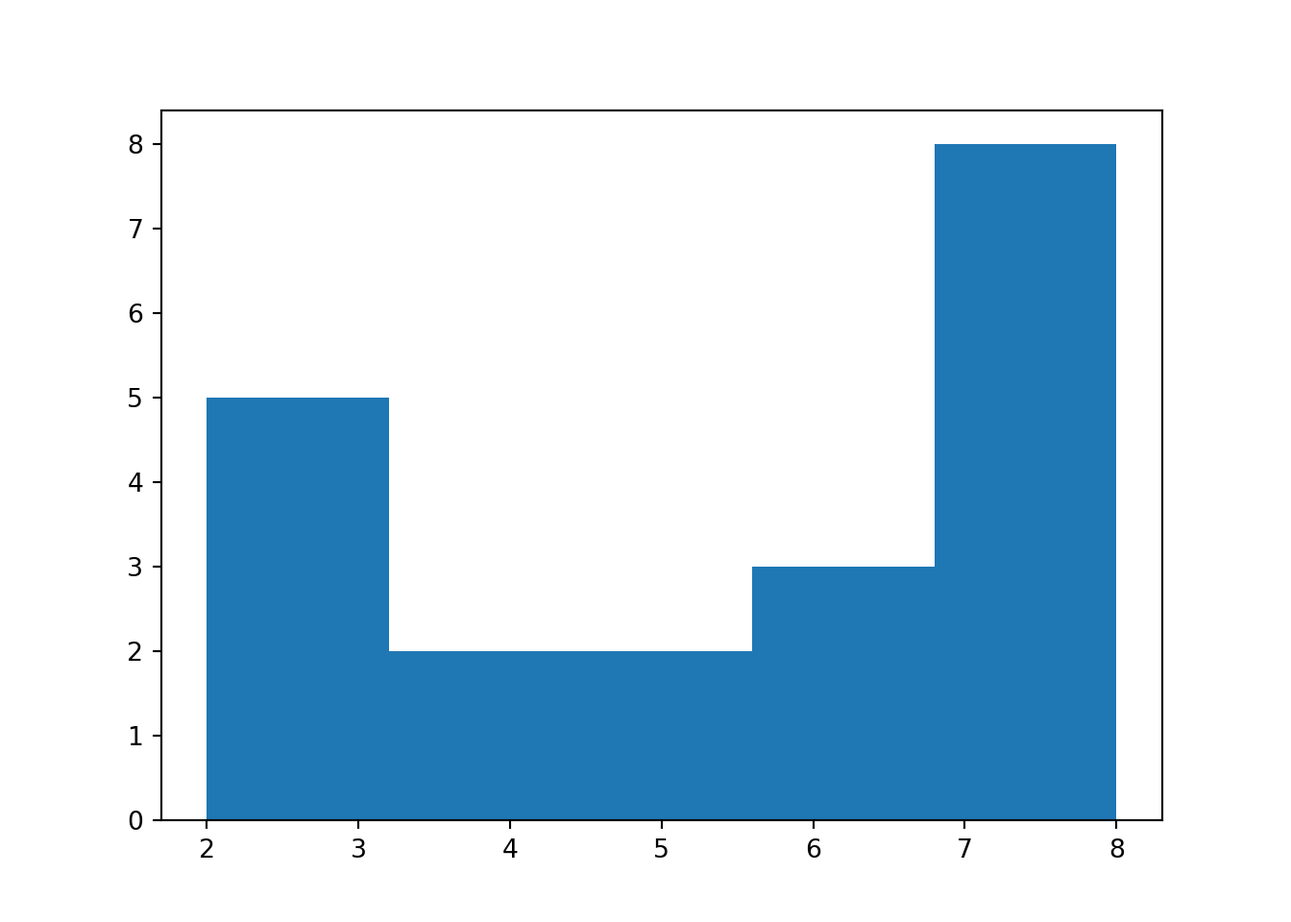
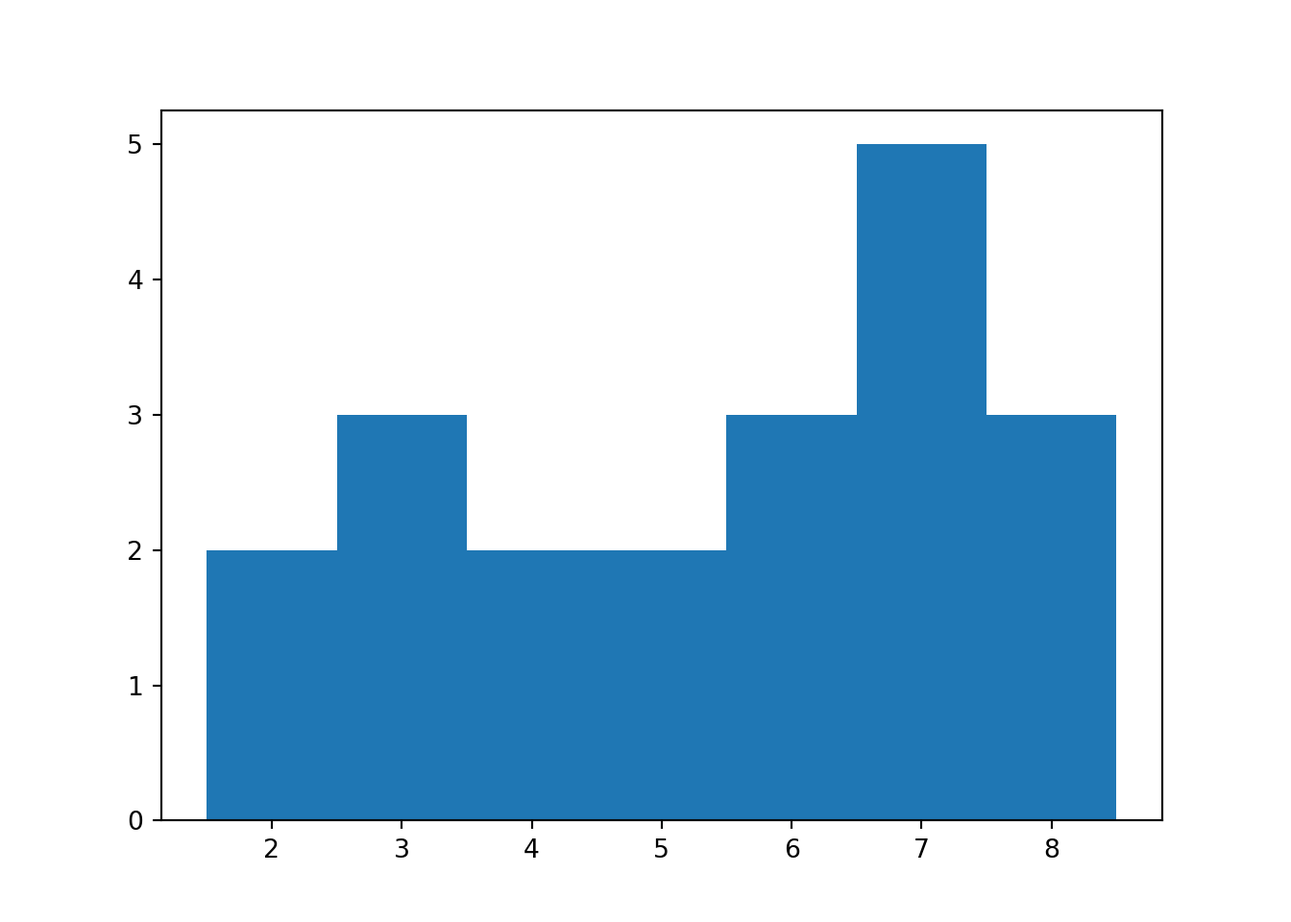
qqplot追加

diff --git a/docs/posts/graph/index.html b/docs/posts/graph/index.html
@@ -227,12 +227,14 @@ gtag('config', 'G-7CEVE5761Z', { 'anonymize_ip': true});
   <li><a href="#r" id="toc-r"><span class="toc-section-number">2.1</span>  R</a>
   <ul>
   <li><a href="#データの読み込み" id="toc-データの読み込み"><span class="toc-section-number">2.1.1</span>  データの読み込み</a></li>
-  <li><a href="#グラフ化" id="toc-グラフ化"><span class="toc-section-number">2.1.2</span>  グラフ化</a></li>
+  <li><a href="#ヒストグラム-1" id="toc-ヒストグラム-1"><span class="toc-section-number">2.1.2</span>  ヒストグラム</a></li>
+  <li><a href="#qqプロット" id="toc-qqプロット"><span class="toc-section-number">2.1.3</span>  QQプロット</a></li>
   </ul></li>
   <li><a href="#python" id="toc-python"><span class="toc-section-number">2.2</span>  Python</a>
   <ul>
   <li><a href="#データの読み込み-1" id="toc-データの読み込み-1"><span class="toc-section-number">2.2.1</span>  データの読み込み</a></li>
-  <li><a href="#グラフ化-1" id="toc-グラフ化-1"><span class="toc-section-number">2.2.2</span>  グラフ化</a></li>
+  <li><a href="#ヒストグラム-2" id="toc-ヒストグラム-2"><span class="toc-section-number">2.2.2</span>  ヒストグラム</a></li>
+  <li><a href="#qqプロット-1" id="toc-qqプロット-1"><span class="toc-section-number">2.2.3</span>  QQプロット</a></li>
   </ul></li>
   </ul></li>
   <li><a href="#参考書籍" id="toc-参考書籍"><span class="toc-section-number">3</span>  参考書籍</a></li>
@@ -255,13 +257,25 @@ gtag('config', 'G-7CEVE5761Z', { 'anonymize_ip': true});
 <span id="cb1-2"><a href="#cb1-2" aria-hidden="true" tabindex="-1"></a>dgr01<span class="ot">&lt;-</span><span class="fu">tibble</span>(<span class="at">value=</span><span class="fu">c</span>(<span class="dv">2</span>,<span class="dv">2</span>,<span class="dv">3</span>,<span class="dv">3</span>,<span class="dv">3</span>,<span class="dv">4</span>,<span class="dv">4</span>,<span class="dv">5</span>,<span class="dv">5</span>,<span class="dv">6</span>,<span class="dv">6</span>,<span class="dv">6</span>,<span class="dv">7</span>,<span class="dv">7</span>,<span class="dv">7</span>,<span class="dv">7</span>,<span class="dv">7</span>,<span class="dv">8</span>,<span class="dv">8</span>,<span class="dv">8</span>))</span></code><button title="Copy to Clipboard" class="code-copy-button"><i class="bi"></i></button></pre></div>
 </div>
 </section>
-<section id="グラフ化" class="level3" data-number="2.1.2">
-<h3 data-number="2.1.2" class="anchored" data-anchor-id="グラフ化"><span class="header-section-number">2.1.2</span> グラフ化</h3>
+<section id="ヒストグラム-1" class="level3" data-number="2.1.2">
+<h3 data-number="2.1.2" class="anchored" data-anchor-id="ヒストグラム-1"><span class="header-section-number">2.1.2</span> ヒストグラム</h3>
 <div class="cell">
 <div class="sourceCode cell-code" id="cb2"><pre class="sourceCode r code-with-copy"><code class="sourceCode r"><span id="cb2-1"><a href="#cb2-1" aria-hidden="true" tabindex="-1"></a><span class="fu">ggplot</span>(dgr01,<span class="fu">aes</span>(value))<span class="sc">+</span></span>
 <span id="cb2-2"><a href="#cb2-2" aria-hidden="true" tabindex="-1"></a>  <span class="fu">geom_histogram</span>(<span class="at">binwidth =</span> <span class="dv">1</span>)</span></code><button title="Copy to Clipboard" class="code-copy-button"><i class="bi"></i></button></pre></div>
 <div class="cell-output-display">
 <p><img src="index_files/figure-html/unnamed-chunk-2-1.png" class="img-fluid" width="672"></p>
+</div>
+</div>
+</section>
+<section id="qqプロット" class="level3" data-number="2.1.3">
+<h3 data-number="2.1.3" class="anchored" data-anchor-id="qqプロット"><span class="header-section-number">2.1.3</span> QQプロット</h3>
+<div class="cell">
+<div class="sourceCode cell-code" id="cb3"><pre class="sourceCode r code-with-copy"><code class="sourceCode r"><span id="cb3-1"><a href="#cb3-1" aria-hidden="true" tabindex="-1"></a><span class="fu">ggplot</span>(dgr01,<span class="fu">aes</span>(<span class="at">sample=</span>value))<span class="sc">+</span></span>
+<span id="cb3-2"><a href="#cb3-2" aria-hidden="true" tabindex="-1"></a>  <span class="fu">stat_qq</span>()<span class="sc">+</span></span>
+<span id="cb3-3"><a href="#cb3-3" aria-hidden="true" tabindex="-1"></a>  <span class="fu">stat_qq_line</span>()<span class="sc">+</span></span>
+<span id="cb3-4"><a href="#cb3-4" aria-hidden="true" tabindex="-1"></a>  <span class="fu">labs</span>(<span class="at">x =</span> <span class="st">"Theoretical Quantiles"</span>, <span class="at">y =</span> <span class="st">"Sample Quantiles"</span>)</span></code><button title="Copy to Clipboard" class="code-copy-button"><i class="bi"></i></button></pre></div>
+<div class="cell-output-display">
+<p><img src="index_files/figure-html/unnamed-chunk-3-1.png" class="img-fluid" width="672"></p>
 </div>
 </div>
 </section>
@@ -271,22 +285,36 @@ gtag('config', 'G-7CEVE5761Z', { 'anonymize_ip': true});
 <section id="データの読み込み-1" class="level3" data-number="2.2.1">
 <h3 data-number="2.2.1" class="anchored" data-anchor-id="データの読み込み-1"><span class="header-section-number">2.2.1</span> データの読み込み</h3>
 <div class="cell">
-<div class="sourceCode cell-code" id="cb3"><pre class="sourceCode python code-with-copy"><code class="sourceCode python"><span id="cb3-1"><a href="#cb3-1" aria-hidden="true" tabindex="-1"></a><span class="im">import</span> numpy <span class="im">as</span> np</span>
-<span id="cb3-2"><a href="#cb3-2" aria-hidden="true" tabindex="-1"></a><span class="im">import</span> matplotlib.pyplot <span class="im">as</span> plt</span>
-<span id="cb3-3"><a href="#cb3-3" aria-hidden="true" tabindex="-1"></a>dgp01<span class="op">=</span>[<span class="dv">2</span>,<span class="dv">2</span>,<span class="dv">3</span>,<span class="dv">3</span>,<span class="dv">3</span>,<span class="dv">4</span>,<span class="dv">4</span>,<span class="dv">5</span>,<span class="dv">5</span>,<span class="dv">6</span>,<span class="dv">6</span>,<span class="dv">6</span>,<span class="dv">7</span>,<span class="dv">7</span>,<span class="dv">7</span>,<span class="dv">7</span>,<span class="dv">7</span>,<span class="dv">8</span>,<span class="dv">8</span>,<span class="dv">8</span>]</span>
-<span id="cb3-4"><a href="#cb3-4" aria-hidden="true" tabindex="-1"></a>counts,bins<span class="op">=</span>np.histogram(dgp01,</span>
-<span id="cb3-5"><a href="#cb3-5" aria-hidden="true" tabindex="-1"></a>bins<span class="op">=</span><span class="bu">int</span>(<span class="bu">max</span>(dgp01)<span class="op">-</span><span class="bu">min</span>(dgp01)<span class="op">+</span><span class="dv">1</span>),</span>
-<span id="cb3-6"><a href="#cb3-6" aria-hidden="true" tabindex="-1"></a><span class="bu">range</span><span class="op">=</span>(<span class="bu">min</span>(dgp01)<span class="op">-</span><span class="fl">0.5</span>,<span class="bu">max</span>(dgp01)<span class="op">+</span><span class="fl">0.5</span>))</span></code><button title="Copy to Clipboard" class="code-copy-button"><i class="bi"></i></button></pre></div>
+<div class="sourceCode cell-code" id="cb4"><pre class="sourceCode python code-with-copy"><code class="sourceCode python"><span id="cb4-1"><a href="#cb4-1" aria-hidden="true" tabindex="-1"></a><span class="im">import</span> numpy <span class="im">as</span> np</span>
+<span id="cb4-2"><a href="#cb4-2" aria-hidden="true" tabindex="-1"></a><span class="im">import</span> matplotlib.pyplot <span class="im">as</span> plt</span>
+<span id="cb4-3"><a href="#cb4-3" aria-hidden="true" tabindex="-1"></a><span class="im">import</span> statsmodels.api <span class="im">as</span> sm</span>
+<span id="cb4-4"><a href="#cb4-4" aria-hidden="true" tabindex="-1"></a>dgp01<span class="op">=</span>np.array([<span class="dv">2</span>,<span class="dv">2</span>,<span class="dv">3</span>,<span class="dv">3</span>,<span class="dv">3</span>,<span class="dv">4</span>,<span class="dv">4</span>,<span class="dv">5</span>,<span class="dv">5</span>,<span class="dv">6</span>,<span class="dv">6</span>,<span class="dv">6</span>,<span class="dv">7</span>,<span class="dv">7</span>,<span class="dv">7</span>,<span class="dv">7</span>,<span class="dv">7</span>,<span class="dv">8</span>,<span class="dv">8</span>,<span class="dv">8</span>])</span>
+<span id="cb4-5"><a href="#cb4-5" aria-hidden="true" tabindex="-1"></a>counts,bins<span class="op">=</span>np.histogram(dgp01,</span>
+<span id="cb4-6"><a href="#cb4-6" aria-hidden="true" tabindex="-1"></a>bins<span class="op">=</span><span class="bu">int</span>(<span class="bu">max</span>(dgp01)<span class="op">-</span><span class="bu">min</span>(dgp01)<span class="op">+</span><span class="dv">1</span>),</span>
+<span id="cb4-7"><a href="#cb4-7" aria-hidden="true" tabindex="-1"></a><span class="bu">range</span><span class="op">=</span>(<span class="bu">min</span>(dgp01)<span class="op">-</span><span class="fl">0.5</span>,<span class="bu">max</span>(dgp01)<span class="op">+</span><span class="fl">0.5</span>))</span></code><button title="Copy to Clipboard" class="code-copy-button"><i class="bi"></i></button></pre></div>
 </div>
 </section>
-<section id="グラフ化-1" class="level3" data-number="2.2.2">
-<h3 data-number="2.2.2" class="anchored" data-anchor-id="グラフ化-1"><span class="header-section-number">2.2.2</span> グラフ化</h3>
+<section id="ヒストグラム-2" class="level3" data-number="2.2.2">
+<h3 data-number="2.2.2" class="anchored" data-anchor-id="ヒストグラム-2"><span class="header-section-number">2.2.2</span> ヒストグラム</h3>
 <div class="cell">
-<div class="sourceCode cell-code" id="cb4"><pre class="sourceCode python code-with-copy"><code class="sourceCode python"><span id="cb4-1"><a href="#cb4-1" aria-hidden="true" tabindex="-1"></a>plt.stairs(counts,bins,fill<span class="op">=</span><span class="va">True</span>)</span>
-<span id="cb4-2"><a href="#cb4-2" aria-hidden="true" tabindex="-1"></a>plt.show()</span></code><button title="Copy to Clipboard" class="code-copy-button"><i class="bi"></i></button></pre></div>
+<div class="sourceCode cell-code" id="cb5"><pre class="sourceCode python code-with-copy"><code class="sourceCode python"><span id="cb5-1"><a href="#cb5-1" aria-hidden="true" tabindex="-1"></a>plt.stairs(counts,bins,fill<span class="op">=</span><span class="va">True</span>)</span>
+<span id="cb5-2"><a href="#cb5-2" aria-hidden="true" tabindex="-1"></a>plt.show()</span></code><button title="Copy to Clipboard" class="code-copy-button"><i class="bi"></i></button></pre></div>
 <div class="cell-output-display">
-<p><img src="index_files/figure-html/unnamed-chunk-4-1.png" class="img-fluid" width="672"></p>
+<p><img src="index_files/figure-html/unnamed-chunk-5-1.png" class="img-fluid" width="672"></p>
 </div>
+<div class="sourceCode cell-code" id="cb6"><pre class="sourceCode python code-with-copy"><code class="sourceCode python"><span id="cb6-1"><a href="#cb6-1" aria-hidden="true" tabindex="-1"></a>plt.clf()</span></code><button title="Copy to Clipboard" class="code-copy-button"><i class="bi"></i></button></pre></div>
+</div>
+</section>
+<section id="qqプロット-1" class="level3" data-number="2.2.3">
+<h3 data-number="2.2.3" class="anchored" data-anchor-id="qqプロット-1"><span class="header-section-number">2.2.3</span> QQプロット</h3>
+<div class="cell">
+<div class="sourceCode cell-code" id="cb7"><pre class="sourceCode python code-with-copy"><code class="sourceCode python"><span id="cb7-1"><a href="#cb7-1" aria-hidden="true" tabindex="-1"></a><span class="im">import</span> matplotlib.pyplot <span class="im">as</span> plt</span>
+<span id="cb7-2"><a href="#cb7-2" aria-hidden="true" tabindex="-1"></a>sm.qqplot(dgp01,fit<span class="op">=</span><span class="va">True</span>,line<span class="op">=</span><span class="st">'45'</span>)</span>
+<span id="cb7-3"><a href="#cb7-3" aria-hidden="true" tabindex="-1"></a>plt.show()</span></code><button title="Copy to Clipboard" class="code-copy-button"><i class="bi"></i></button></pre></div>
+<div class="cell-output-display">
+<p><img src="index_files/figure-html/unnamed-chunk-6-3.png" class="img-fluid" width="672"></p>
+</div>
+<div class="sourceCode cell-code" id="cb8"><pre class="sourceCode python code-with-copy"><code class="sourceCode python"><span id="cb8-1"><a href="#cb8-1" aria-hidden="true" tabindex="-1"></a>plt.clf()</span></code><button title="Copy to Clipboard" class="code-copy-button"><i class="bi"></i></button></pre></div>
 </div>
 </section>
 </section>
@@ -301,6 +329,7 @@ gtag('config', 'G-7CEVE5761Z', { 'anonymize_ip': true});
 <h1 data-number="4"><span class="header-section-number">4</span> 参考ウェブサイト</h1>
 <ul>
 <li><a href="https://ggplot2.tidyverse.org/reference/geom_histogram.html">ggplot2 - Histograms and frequency polygons</a></li>
+<li><a href="https://ggplot2.tidyverse.org/reference/geom_qq.html">ggplot2- A quantile-quantile plot</a></li>
 <li><a href="https://utokyo-ipp.github.io/index.html">Pythonプログラミング入門 (東京大学 数理・情報教育研究センター)</a></li>
 <li><a href="https://nakazakimasahito.wordpress.com/">matplotlib 初期化</a></li>
 <li><a href="https://numpy.org/doc/stable/reference/generated/numpy.histogram.html">numpy.histogram</a></li>
@@ -497,70 +526,92 @@ window.document.addEventListener("DOMContentLoaded", function (event) {
   }
 });
 </script><div class="modal fade" id="quarto-embedded-source-code-modal" tabindex="-1" aria-labelledby="quarto-embedded-source-code-modal-label" aria-hidden="true"><div class="modal-dialog modal-dialog-scrollable"><div class="modal-content"><div class="modal-header"><h5 class="modal-title" id="quarto-embedded-source-code-modal-label">Source Code</h5><button class="btn-close" data-bs-dismiss="modal"></button></div><div class="modal-body"><div class="">
-<div class="sourceCode" id="cb5" data-shortcodes="false"><pre class="sourceCode markdown code-with-copy"><code class="sourceCode markdown"><span id="cb5-1"><a href="#cb5-1" aria-hidden="true" tabindex="-1"></a><span class="co">---</span></span>
-<span id="cb5-2"><a href="#cb5-2" aria-hidden="true" tabindex="-1"></a><span class="an">title:</span><span class="co"> "グラフ"</span></span>
-<span id="cb5-3"><a href="#cb5-3" aria-hidden="true" tabindex="-1"></a><span class="an">author:</span><span class="co"> "Nobukuni Hyakutake"</span></span>
-<span id="cb5-4"><a href="#cb5-4" aria-hidden="true" tabindex="-1"></a><span class="an">date:</span><span class="co"> "2023-02-22"</span></span>
-<span id="cb5-5"><a href="#cb5-5" aria-hidden="true" tabindex="-1"></a><span class="an">date-format:</span><span class="co"> "iso"</span></span>
-<span id="cb5-6"><a href="#cb5-6" aria-hidden="true" tabindex="-1"></a><span class="an">categories:</span><span class="co"> [R,Python]</span></span>
-<span id="cb5-7"><a href="#cb5-7" aria-hidden="true" tabindex="-1"></a><span class="co">---</span></span>
-<span id="cb5-8"><a href="#cb5-8" aria-hidden="true" tabindex="-1"></a></span>
-<span id="cb5-9"><a href="#cb5-9" aria-hidden="true" tabindex="-1"></a><span class="al">![](mountain.jpeg)</span></span>
-<span id="cb5-10"><a href="#cb5-10" aria-hidden="true" tabindex="-1"></a></span>
-<span id="cb5-11"><a href="#cb5-11" aria-hidden="true" tabindex="-1"></a><span class="fu"># 目的</span></span>
-<span id="cb5-12"><a href="#cb5-12" aria-hidden="true" tabindex="-1"></a></span>
-<span id="cb5-13"><a href="#cb5-13" aria-hidden="true" tabindex="-1"></a>RとPythonでグラフ作成をします。</span>
-<span id="cb5-14"><a href="#cb5-14" aria-hidden="true" tabindex="-1"></a></span>
-<span id="cb5-15"><a href="#cb5-15" aria-hidden="true" tabindex="-1"></a><span class="fu"># ヒストグラム</span></span>
-<span id="cb5-16"><a href="#cb5-16" aria-hidden="true" tabindex="-1"></a></span>
-<span id="cb5-17"><a href="#cb5-17" aria-hidden="true" tabindex="-1"></a><span class="fu">## R</span></span>
-<span id="cb5-18"><a href="#cb5-18" aria-hidden="true" tabindex="-1"></a></span>
-<span id="cb5-19"><a href="#cb5-19" aria-hidden="true" tabindex="-1"></a><span class="fu">### データの読み込み</span></span>
-<span id="cb5-20"><a href="#cb5-20" aria-hidden="true" tabindex="-1"></a></span>
-<span id="cb5-23"><a href="#cb5-23" aria-hidden="true" tabindex="-1"></a><span class="in">```{r}</span></span>
-<span id="cb5-24"><a href="#cb5-24" aria-hidden="true" tabindex="-1"></a><span class="fu">library</span>(tidyverse)</span>
-<span id="cb5-25"><a href="#cb5-25" aria-hidden="true" tabindex="-1"></a>dgr01<span class="ot">&lt;-</span><span class="fu">tibble</span>(<span class="at">value=</span><span class="fu">c</span>(<span class="dv">2</span>,<span class="dv">2</span>,<span class="dv">3</span>,<span class="dv">3</span>,<span class="dv">3</span>,<span class="dv">4</span>,<span class="dv">4</span>,<span class="dv">5</span>,<span class="dv">5</span>,<span class="dv">6</span>,<span class="dv">6</span>,<span class="dv">6</span>,<span class="dv">7</span>,<span class="dv">7</span>,<span class="dv">7</span>,<span class="dv">7</span>,<span class="dv">7</span>,<span class="dv">8</span>,<span class="dv">8</span>,<span class="dv">8</span>))</span>
-<span id="cb5-26"><a href="#cb5-26" aria-hidden="true" tabindex="-1"></a><span class="in">```</span></span>
-<span id="cb5-27"><a href="#cb5-27" aria-hidden="true" tabindex="-1"></a></span>
-<span id="cb5-28"><a href="#cb5-28" aria-hidden="true" tabindex="-1"></a><span class="fu">### グラフ化</span></span>
-<span id="cb5-29"><a href="#cb5-29" aria-hidden="true" tabindex="-1"></a></span>
-<span id="cb5-32"><a href="#cb5-32" aria-hidden="true" tabindex="-1"></a><span class="in">```{r}</span></span>
-<span id="cb5-33"><a href="#cb5-33" aria-hidden="true" tabindex="-1"></a><span class="fu">ggplot</span>(dgr01,<span class="fu">aes</span>(value))<span class="sc">+</span></span>
-<span id="cb5-34"><a href="#cb5-34" aria-hidden="true" tabindex="-1"></a>  <span class="fu">geom_histogram</span>(<span class="at">binwidth =</span> <span class="dv">1</span>)</span>
-<span id="cb5-35"><a href="#cb5-35" aria-hidden="true" tabindex="-1"></a><span class="in">```</span></span>
-<span id="cb5-36"><a href="#cb5-36" aria-hidden="true" tabindex="-1"></a></span>
-<span id="cb5-37"><a href="#cb5-37" aria-hidden="true" tabindex="-1"></a></span>
-<span id="cb5-38"><a href="#cb5-38" aria-hidden="true" tabindex="-1"></a><span class="fu">## Python</span></span>
-<span id="cb5-39"><a href="#cb5-39" aria-hidden="true" tabindex="-1"></a></span>
-<span id="cb5-40"><a href="#cb5-40" aria-hidden="true" tabindex="-1"></a><span class="fu">### データの読み込み</span></span>
-<span id="cb5-41"><a href="#cb5-41" aria-hidden="true" tabindex="-1"></a></span>
-<span id="cb5-44"><a href="#cb5-44" aria-hidden="true" tabindex="-1"></a><span class="in">```{python}</span></span>
-<span id="cb5-45"><a href="#cb5-45" aria-hidden="true" tabindex="-1"></a><span class="im">import</span> numpy <span class="im">as</span> np</span>
-<span id="cb5-46"><a href="#cb5-46" aria-hidden="true" tabindex="-1"></a><span class="im">import</span> matplotlib.pyplot <span class="im">as</span> plt</span>
-<span id="cb5-47"><a href="#cb5-47" aria-hidden="true" tabindex="-1"></a>dgp01<span class="op">=</span>[<span class="dv">2</span>,<span class="dv">2</span>,<span class="dv">3</span>,<span class="dv">3</span>,<span class="dv">3</span>,<span class="dv">4</span>,<span class="dv">4</span>,<span class="dv">5</span>,<span class="dv">5</span>,<span class="dv">6</span>,<span class="dv">6</span>,<span class="dv">6</span>,<span class="dv">7</span>,<span class="dv">7</span>,<span class="dv">7</span>,<span class="dv">7</span>,<span class="dv">7</span>,<span class="dv">8</span>,<span class="dv">8</span>,<span class="dv">8</span>]</span>
-<span id="cb5-48"><a href="#cb5-48" aria-hidden="true" tabindex="-1"></a>counts,bins<span class="op">=</span>np.histogram(dgp01,</span>
-<span id="cb5-49"><a href="#cb5-49" aria-hidden="true" tabindex="-1"></a>bins<span class="op">=</span><span class="bu">int</span>(<span class="bu">max</span>(dgp01)<span class="op">-</span><span class="bu">min</span>(dgp01)<span class="op">+</span><span class="dv">1</span>),</span>
-<span id="cb5-50"><a href="#cb5-50" aria-hidden="true" tabindex="-1"></a><span class="bu">range</span><span class="op">=</span>(<span class="bu">min</span>(dgp01)<span class="op">-</span><span class="fl">0.5</span>,<span class="bu">max</span>(dgp01)<span class="op">+</span><span class="fl">0.5</span>))</span>
-<span id="cb5-51"><a href="#cb5-51" aria-hidden="true" tabindex="-1"></a><span class="in">```</span></span>
-<span id="cb5-52"><a href="#cb5-52" aria-hidden="true" tabindex="-1"></a></span>
-<span id="cb5-53"><a href="#cb5-53" aria-hidden="true" tabindex="-1"></a><span class="fu">### グラフ化</span></span>
-<span id="cb5-54"><a href="#cb5-54" aria-hidden="true" tabindex="-1"></a></span>
-<span id="cb5-57"><a href="#cb5-57" aria-hidden="true" tabindex="-1"></a><span class="in">```{python}</span></span>
-<span id="cb5-58"><a href="#cb5-58" aria-hidden="true" tabindex="-1"></a>plt.stairs(counts,bins,fill<span class="op">=</span><span class="va">True</span>)</span>
-<span id="cb5-59"><a href="#cb5-59" aria-hidden="true" tabindex="-1"></a>plt.show()</span>
-<span id="cb5-60"><a href="#cb5-60" aria-hidden="true" tabindex="-1"></a><span class="in">```</span></span>
-<span id="cb5-61"><a href="#cb5-61" aria-hidden="true" tabindex="-1"></a></span>
-<span id="cb5-62"><a href="#cb5-62" aria-hidden="true" tabindex="-1"></a><span class="fu"># 参考書籍</span></span>
-<span id="cb5-63"><a href="#cb5-63" aria-hidden="true" tabindex="-1"></a></span>
-<span id="cb5-64"><a href="#cb5-64" aria-hidden="true" tabindex="-1"></a><span class="ss">- </span><span class="co">[</span><span class="ot">Pythonデータサイエンスハンドブック</span><span class="co">](https://www.oreilly.co.jp/books/9784873118413/)</span></span>
-<span id="cb5-65"><a href="#cb5-65" aria-hidden="true" tabindex="-1"></a></span>
-<span id="cb5-66"><a href="#cb5-66" aria-hidden="true" tabindex="-1"></a><span class="fu"># 参考ウェブサイト</span></span>
-<span id="cb5-67"><a href="#cb5-67" aria-hidden="true" tabindex="-1"></a></span>
-<span id="cb5-68"><a href="#cb5-68" aria-hidden="true" tabindex="-1"></a><span class="ss">- </span><span class="co">[</span><span class="ot">ggplot2 - Histograms and frequency polygons</span><span class="co">](https://ggplot2.tidyverse.org/reference/geom_histogram.html)</span></span>
-<span id="cb5-69"><a href="#cb5-69" aria-hidden="true" tabindex="-1"></a><span class="ss">- </span><span class="co">[</span><span class="ot">Pythonプログラミング入門 (東京大学 数理・情報教育研究センター)</span><span class="co">](https://utokyo-ipp.github.io/index.html)</span></span>
-<span id="cb5-70"><a href="#cb5-70" aria-hidden="true" tabindex="-1"></a><span class="ss">- </span><span class="co">[</span><span class="ot">matplotlib 初期化</span><span class="co">](https://nakazakimasahito.wordpress.com/)</span></span>
-<span id="cb5-71"><a href="#cb5-71" aria-hidden="true" tabindex="-1"></a><span class="ss">- </span><span class="co">[</span><span class="ot">numpy.histogram</span><span class="co">](https://numpy.org/doc/stable/reference/generated/numpy.histogram.html)</span></span>
-<span id="cb5-72"><a href="#cb5-72" aria-hidden="true" tabindex="-1"></a><span class="ss">- </span><span class="co">[</span><span class="ot">matplotlib.pyplot.stairs</span><span class="co">](https://matplotlib.org/stable/api/_as_gen/matplotlib.pyplot.stairs.html)</span></span>
+<div class="sourceCode" id="cb9" data-shortcodes="false"><pre class="sourceCode markdown code-with-copy"><code class="sourceCode markdown"><span id="cb9-1"><a href="#cb9-1" aria-hidden="true" tabindex="-1"></a><span class="co">---</span></span>
+<span id="cb9-2"><a href="#cb9-2" aria-hidden="true" tabindex="-1"></a><span class="an">title:</span><span class="co"> "グラフ"</span></span>
+<span id="cb9-3"><a href="#cb9-3" aria-hidden="true" tabindex="-1"></a><span class="an">author:</span><span class="co"> "Nobukuni Hyakutake"</span></span>
+<span id="cb9-4"><a href="#cb9-4" aria-hidden="true" tabindex="-1"></a><span class="an">date:</span><span class="co"> "2023-02-22"</span></span>
+<span id="cb9-5"><a href="#cb9-5" aria-hidden="true" tabindex="-1"></a><span class="an">date-format:</span><span class="co"> "iso"</span></span>
+<span id="cb9-6"><a href="#cb9-6" aria-hidden="true" tabindex="-1"></a><span class="an">categories:</span><span class="co"> [R,Python]</span></span>
+<span id="cb9-7"><a href="#cb9-7" aria-hidden="true" tabindex="-1"></a><span class="co">---</span></span>
+<span id="cb9-8"><a href="#cb9-8" aria-hidden="true" tabindex="-1"></a></span>
+<span id="cb9-9"><a href="#cb9-9" aria-hidden="true" tabindex="-1"></a><span class="al">![](mountain.jpeg)</span></span>
+<span id="cb9-10"><a href="#cb9-10" aria-hidden="true" tabindex="-1"></a></span>
+<span id="cb9-11"><a href="#cb9-11" aria-hidden="true" tabindex="-1"></a><span class="fu"># 目的</span></span>
+<span id="cb9-12"><a href="#cb9-12" aria-hidden="true" tabindex="-1"></a></span>
+<span id="cb9-13"><a href="#cb9-13" aria-hidden="true" tabindex="-1"></a>RとPythonでグラフ作成をします。</span>
+<span id="cb9-14"><a href="#cb9-14" aria-hidden="true" tabindex="-1"></a></span>
+<span id="cb9-15"><a href="#cb9-15" aria-hidden="true" tabindex="-1"></a><span class="fu"># ヒストグラム</span></span>
+<span id="cb9-16"><a href="#cb9-16" aria-hidden="true" tabindex="-1"></a></span>
+<span id="cb9-17"><a href="#cb9-17" aria-hidden="true" tabindex="-1"></a><span class="fu">## R</span></span>
+<span id="cb9-18"><a href="#cb9-18" aria-hidden="true" tabindex="-1"></a></span>
+<span id="cb9-19"><a href="#cb9-19" aria-hidden="true" tabindex="-1"></a><span class="fu">### データの読み込み</span></span>
+<span id="cb9-20"><a href="#cb9-20" aria-hidden="true" tabindex="-1"></a></span>
+<span id="cb9-23"><a href="#cb9-23" aria-hidden="true" tabindex="-1"></a><span class="in">```{r}</span></span>
+<span id="cb9-24"><a href="#cb9-24" aria-hidden="true" tabindex="-1"></a><span class="fu">library</span>(tidyverse)</span>
+<span id="cb9-25"><a href="#cb9-25" aria-hidden="true" tabindex="-1"></a>dgr01<span class="ot">&lt;-</span><span class="fu">tibble</span>(<span class="at">value=</span><span class="fu">c</span>(<span class="dv">2</span>,<span class="dv">2</span>,<span class="dv">3</span>,<span class="dv">3</span>,<span class="dv">3</span>,<span class="dv">4</span>,<span class="dv">4</span>,<span class="dv">5</span>,<span class="dv">5</span>,<span class="dv">6</span>,<span class="dv">6</span>,<span class="dv">6</span>,<span class="dv">7</span>,<span class="dv">7</span>,<span class="dv">7</span>,<span class="dv">7</span>,<span class="dv">7</span>,<span class="dv">8</span>,<span class="dv">8</span>,<span class="dv">8</span>))</span>
+<span id="cb9-26"><a href="#cb9-26" aria-hidden="true" tabindex="-1"></a><span class="in">```</span></span>
+<span id="cb9-27"><a href="#cb9-27" aria-hidden="true" tabindex="-1"></a></span>
+<span id="cb9-28"><a href="#cb9-28" aria-hidden="true" tabindex="-1"></a><span class="fu">### ヒストグラム</span></span>
+<span id="cb9-29"><a href="#cb9-29" aria-hidden="true" tabindex="-1"></a></span>
+<span id="cb9-32"><a href="#cb9-32" aria-hidden="true" tabindex="-1"></a><span class="in">```{r}</span></span>
+<span id="cb9-33"><a href="#cb9-33" aria-hidden="true" tabindex="-1"></a><span class="fu">ggplot</span>(dgr01,<span class="fu">aes</span>(value))<span class="sc">+</span></span>
+<span id="cb9-34"><a href="#cb9-34" aria-hidden="true" tabindex="-1"></a>  <span class="fu">geom_histogram</span>(<span class="at">binwidth =</span> <span class="dv">1</span>)</span>
+<span id="cb9-35"><a href="#cb9-35" aria-hidden="true" tabindex="-1"></a><span class="in">```</span></span>
+<span id="cb9-36"><a href="#cb9-36" aria-hidden="true" tabindex="-1"></a></span>
+<span id="cb9-37"><a href="#cb9-37" aria-hidden="true" tabindex="-1"></a><span class="fu">### QQプロット</span></span>
+<span id="cb9-38"><a href="#cb9-38" aria-hidden="true" tabindex="-1"></a></span>
+<span id="cb9-41"><a href="#cb9-41" aria-hidden="true" tabindex="-1"></a><span class="in">```{r}</span></span>
+<span id="cb9-42"><a href="#cb9-42" aria-hidden="true" tabindex="-1"></a><span class="fu">ggplot</span>(dgr01,<span class="fu">aes</span>(<span class="at">sample=</span>value))<span class="sc">+</span></span>
+<span id="cb9-43"><a href="#cb9-43" aria-hidden="true" tabindex="-1"></a>  <span class="fu">stat_qq</span>()<span class="sc">+</span></span>
+<span id="cb9-44"><a href="#cb9-44" aria-hidden="true" tabindex="-1"></a>  <span class="fu">stat_qq_line</span>()<span class="sc">+</span></span>
+<span id="cb9-45"><a href="#cb9-45" aria-hidden="true" tabindex="-1"></a>  <span class="fu">labs</span>(<span class="at">x =</span> <span class="st">"Theoretical Quantiles"</span>, <span class="at">y =</span> <span class="st">"Sample Quantiles"</span>)</span>
+<span id="cb9-46"><a href="#cb9-46" aria-hidden="true" tabindex="-1"></a><span class="in">```</span></span>
+<span id="cb9-47"><a href="#cb9-47" aria-hidden="true" tabindex="-1"></a></span>
+<span id="cb9-48"><a href="#cb9-48" aria-hidden="true" tabindex="-1"></a></span>
+<span id="cb9-49"><a href="#cb9-49" aria-hidden="true" tabindex="-1"></a><span class="fu">## Python</span></span>
+<span id="cb9-50"><a href="#cb9-50" aria-hidden="true" tabindex="-1"></a></span>
+<span id="cb9-51"><a href="#cb9-51" aria-hidden="true" tabindex="-1"></a><span class="fu">### データの読み込み</span></span>
+<span id="cb9-52"><a href="#cb9-52" aria-hidden="true" tabindex="-1"></a></span>
+<span id="cb9-55"><a href="#cb9-55" aria-hidden="true" tabindex="-1"></a><span class="in">```{python}</span></span>
+<span id="cb9-56"><a href="#cb9-56" aria-hidden="true" tabindex="-1"></a><span class="im">import</span> numpy <span class="im">as</span> np</span>
+<span id="cb9-57"><a href="#cb9-57" aria-hidden="true" tabindex="-1"></a><span class="im">import</span> matplotlib.pyplot <span class="im">as</span> plt</span>
+<span id="cb9-58"><a href="#cb9-58" aria-hidden="true" tabindex="-1"></a><span class="im">import</span> statsmodels.api <span class="im">as</span> sm</span>
+<span id="cb9-59"><a href="#cb9-59" aria-hidden="true" tabindex="-1"></a>dgp01<span class="op">=</span>np.array([<span class="dv">2</span>,<span class="dv">2</span>,<span class="dv">3</span>,<span class="dv">3</span>,<span class="dv">3</span>,<span class="dv">4</span>,<span class="dv">4</span>,<span class="dv">5</span>,<span class="dv">5</span>,<span class="dv">6</span>,<span class="dv">6</span>,<span class="dv">6</span>,<span class="dv">7</span>,<span class="dv">7</span>,<span class="dv">7</span>,<span class="dv">7</span>,<span class="dv">7</span>,<span class="dv">8</span>,<span class="dv">8</span>,<span class="dv">8</span>])</span>
+<span id="cb9-60"><a href="#cb9-60" aria-hidden="true" tabindex="-1"></a>counts,bins<span class="op">=</span>np.histogram(dgp01,</span>
+<span id="cb9-61"><a href="#cb9-61" aria-hidden="true" tabindex="-1"></a>bins<span class="op">=</span><span class="bu">int</span>(<span class="bu">max</span>(dgp01)<span class="op">-</span><span class="bu">min</span>(dgp01)<span class="op">+</span><span class="dv">1</span>),</span>
+<span id="cb9-62"><a href="#cb9-62" aria-hidden="true" tabindex="-1"></a><span class="bu">range</span><span class="op">=</span>(<span class="bu">min</span>(dgp01)<span class="op">-</span><span class="fl">0.5</span>,<span class="bu">max</span>(dgp01)<span class="op">+</span><span class="fl">0.5</span>))</span>
+<span id="cb9-63"><a href="#cb9-63" aria-hidden="true" tabindex="-1"></a><span class="in">```</span></span>
+<span id="cb9-64"><a href="#cb9-64" aria-hidden="true" tabindex="-1"></a></span>
+<span id="cb9-65"><a href="#cb9-65" aria-hidden="true" tabindex="-1"></a><span class="fu">### ヒストグラム</span></span>
+<span id="cb9-66"><a href="#cb9-66" aria-hidden="true" tabindex="-1"></a></span>
+<span id="cb9-69"><a href="#cb9-69" aria-hidden="true" tabindex="-1"></a><span class="in">```{python}</span></span>
+<span id="cb9-70"><a href="#cb9-70" aria-hidden="true" tabindex="-1"></a>plt.stairs(counts,bins,fill<span class="op">=</span><span class="va">True</span>)</span>
+<span id="cb9-71"><a href="#cb9-71" aria-hidden="true" tabindex="-1"></a>plt.show()</span>
+<span id="cb9-72"><a href="#cb9-72" aria-hidden="true" tabindex="-1"></a>plt.clf()</span>
+<span id="cb9-73"><a href="#cb9-73" aria-hidden="true" tabindex="-1"></a><span class="in">```</span></span>
+<span id="cb9-74"><a href="#cb9-74" aria-hidden="true" tabindex="-1"></a></span>
+<span id="cb9-75"><a href="#cb9-75" aria-hidden="true" tabindex="-1"></a><span class="fu">### QQプロット</span></span>
+<span id="cb9-76"><a href="#cb9-76" aria-hidden="true" tabindex="-1"></a></span>
+<span id="cb9-79"><a href="#cb9-79" aria-hidden="true" tabindex="-1"></a><span class="in">```{python}</span></span>
+<span id="cb9-80"><a href="#cb9-80" aria-hidden="true" tabindex="-1"></a><span class="im">import</span> matplotlib.pyplot <span class="im">as</span> plt</span>
+<span id="cb9-81"><a href="#cb9-81" aria-hidden="true" tabindex="-1"></a>sm.qqplot(dgp01,fit<span class="op">=</span><span class="va">True</span>,line<span class="op">=</span><span class="st">'45'</span>)</span>
+<span id="cb9-82"><a href="#cb9-82" aria-hidden="true" tabindex="-1"></a>plt.show()</span>
+<span id="cb9-83"><a href="#cb9-83" aria-hidden="true" tabindex="-1"></a>plt.clf()</span>
+<span id="cb9-84"><a href="#cb9-84" aria-hidden="true" tabindex="-1"></a><span class="in">```</span></span>
+<span id="cb9-85"><a href="#cb9-85" aria-hidden="true" tabindex="-1"></a></span>
+<span id="cb9-86"><a href="#cb9-86" aria-hidden="true" tabindex="-1"></a></span>
+<span id="cb9-87"><a href="#cb9-87" aria-hidden="true" tabindex="-1"></a><span class="fu"># 参考書籍</span></span>
+<span id="cb9-88"><a href="#cb9-88" aria-hidden="true" tabindex="-1"></a></span>
+<span id="cb9-89"><a href="#cb9-89" aria-hidden="true" tabindex="-1"></a><span class="ss">- </span><span class="co">[</span><span class="ot">Pythonデータサイエンスハンドブック</span><span class="co">](https://www.oreilly.co.jp/books/9784873118413/)</span></span>
+<span id="cb9-90"><a href="#cb9-90" aria-hidden="true" tabindex="-1"></a></span>
+<span id="cb9-91"><a href="#cb9-91" aria-hidden="true" tabindex="-1"></a><span class="fu"># 参考ウェブサイト</span></span>
+<span id="cb9-92"><a href="#cb9-92" aria-hidden="true" tabindex="-1"></a></span>
+<span id="cb9-93"><a href="#cb9-93" aria-hidden="true" tabindex="-1"></a><span class="ss">- </span><span class="co">[</span><span class="ot">ggplot2 - Histograms and frequency polygons</span><span class="co">](https://ggplot2.tidyverse.org/reference/geom_histogram.html)</span></span>
+<span id="cb9-94"><a href="#cb9-94" aria-hidden="true" tabindex="-1"></a><span class="ss">- </span><span class="co">[</span><span class="ot">ggplot2- A quantile-quantile plot</span><span class="co">](https://ggplot2.tidyverse.org/reference/geom_qq.html)</span></span>
+<span id="cb9-95"><a href="#cb9-95" aria-hidden="true" tabindex="-1"></a><span class="ss">- </span><span class="co">[</span><span class="ot">Pythonプログラミング入門 (東京大学 数理・情報教育研究センター)</span><span class="co">](https://utokyo-ipp.github.io/index.html)</span></span>
+<span id="cb9-96"><a href="#cb9-96" aria-hidden="true" tabindex="-1"></a><span class="ss">- </span><span class="co">[</span><span class="ot">matplotlib 初期化</span><span class="co">](https://nakazakimasahito.wordpress.com/)</span></span>
+<span id="cb9-97"><a href="#cb9-97" aria-hidden="true" tabindex="-1"></a><span class="ss">- </span><span class="co">[</span><span class="ot">numpy.histogram</span><span class="co">](https://numpy.org/doc/stable/reference/generated/numpy.histogram.html)</span></span>
+<span id="cb9-98"><a href="#cb9-98" aria-hidden="true" tabindex="-1"></a><span class="ss">- </span><span class="co">[</span><span class="ot">matplotlib.pyplot.stairs</span><span class="co">](https://matplotlib.org/stable/api/_as_gen/matplotlib.pyplot.stairs.html)</span></span>
 </code><button title="Copy to Clipboard" class="code-copy-button"><i class="bi"></i></button></pre></div>
 </div></div></div></div></div>
 </div> <!-- /content -->

diff --git a/docs/index.html b/docs/index.html
@@ -297,7 +297,7 @@ Categories
 R
 </td>
 </tr>
-<tr data-index="1" data-categories="R,Python" data-listing-date-sort="1676991600000" data-listing-file-modified-sort="1677052947856" data-listing-reading-time-sort="0.17" data-listing-title-sort="グラフ" data-listing-filename-sort="index.qmd">
+<tr data-index="1" data-categories="R,Python" data-listing-date-sort="1676991600000" data-listing-file-modified-sort="1678572547081" data-listing-reading-time-sort="0.295" data-listing-title-sort="グラフ" data-listing-filename-sort="index.qmd">
 <td class="listing-image">
 <img src="./posts/graph/mountain.jpeg" style="height: 40px;">
 </td>
